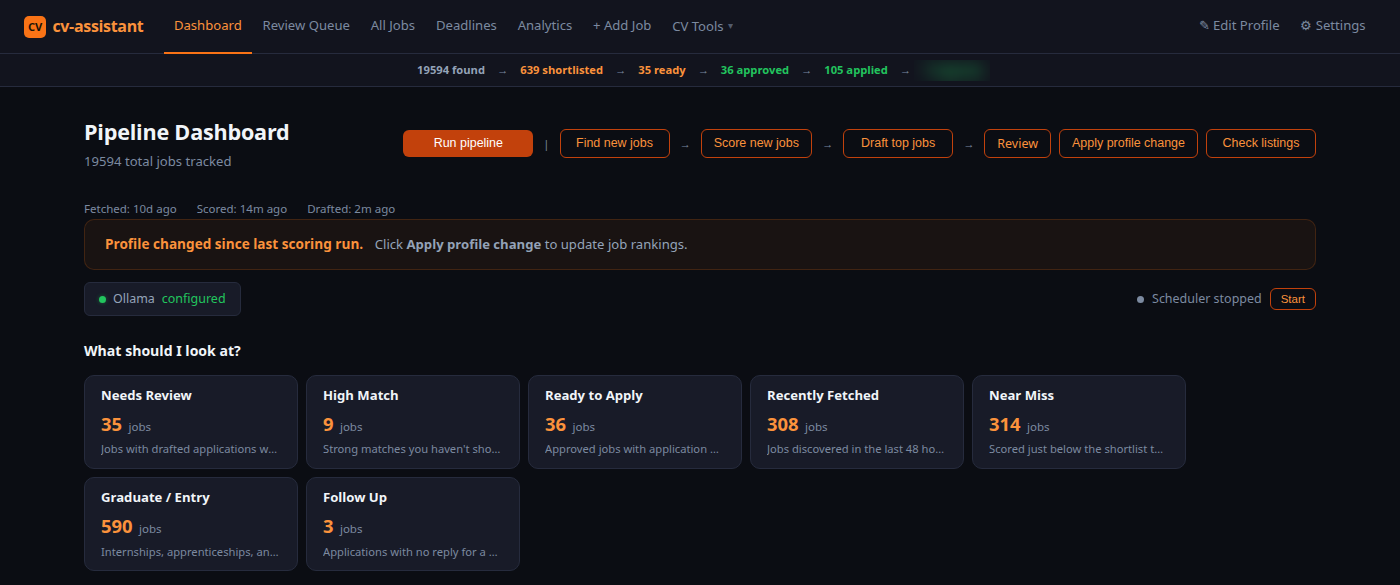
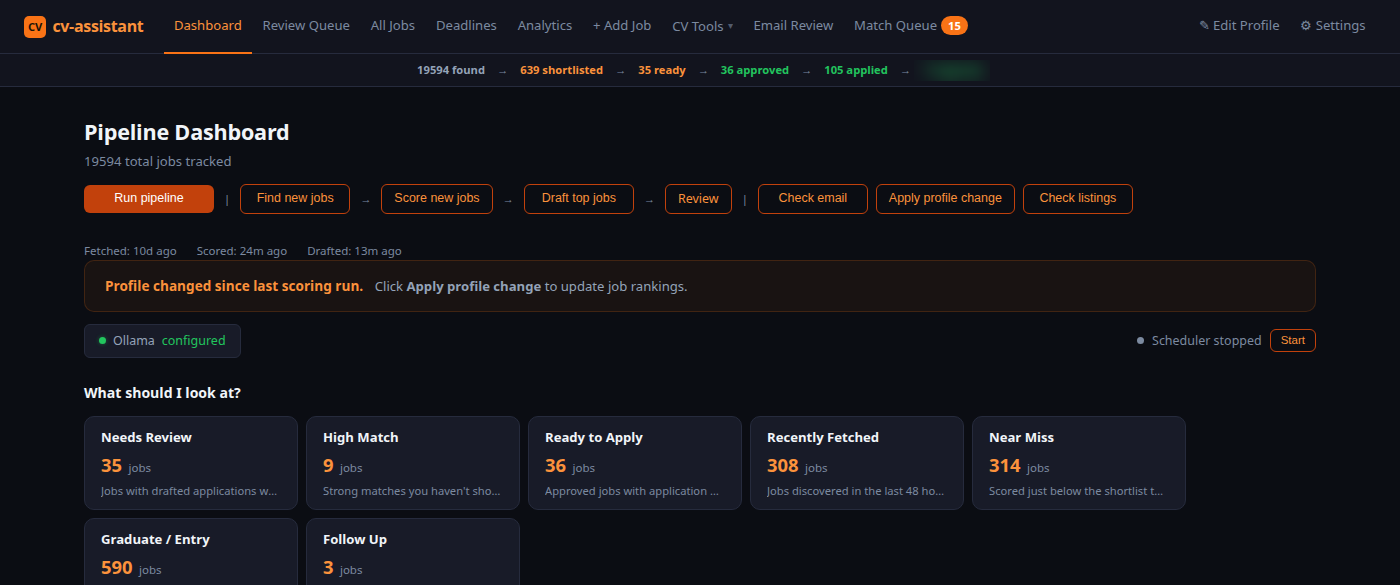
Add Email Review and Match Queue screenshots; show email links in nav

diff --git a/README.md b/README.md
@@ -55,7 +55,8 @@ flowchart LR
 
 These come from my own job search, taken on 30 September 2026. The only changes: the dashboard is
 cropped above the list of employers I'm currently interviewing with, and one company name is
-blurred (see the last screenshot), along with the response count in the bar across the top.
+blurred (see the risk-check screenshot), along with the response count in the bar across the top
+and the senders and subjects on the two email pages.
 
 **Dashboard.** Nearly 19,600 jobs tracked, with the pipeline from found to applied across the top:
 
@@ -80,6 +81,21 @@ fees behind a job title) before any time is spent applying. I've blurred the com
 because the point is the pattern and not the business:
 
 ![Risk flagged job](screenshots/job-risk.png)
+
+**Match Queue.** Employer emails turned into proposed status changes. Each email is classified
+(acknowledgement, assessment invite, rejection and so on), matched to the job it's about, and
+given a confidence score. High-confidence updates apply themselves. Anything less waits here
+for me to approve, ignore or correct, and corrections feed back into the classifier. Senders,
+subjects and matched jobs are blurred:
+
+![Match queue](screenshots/match-queue.png)
+
+**Email Review.** The audit trail behind the classifier: what each email was predicted to be,
+how confident it was, which rule or model made the call, and the label I confirmed. Most of my
+inbox is job-board notifications, which is why "unknown" dominates the counts. Senders and
+subjects are blurred:
+
+![Email review](screenshots/email-review.png)
 
 ## Security
 
